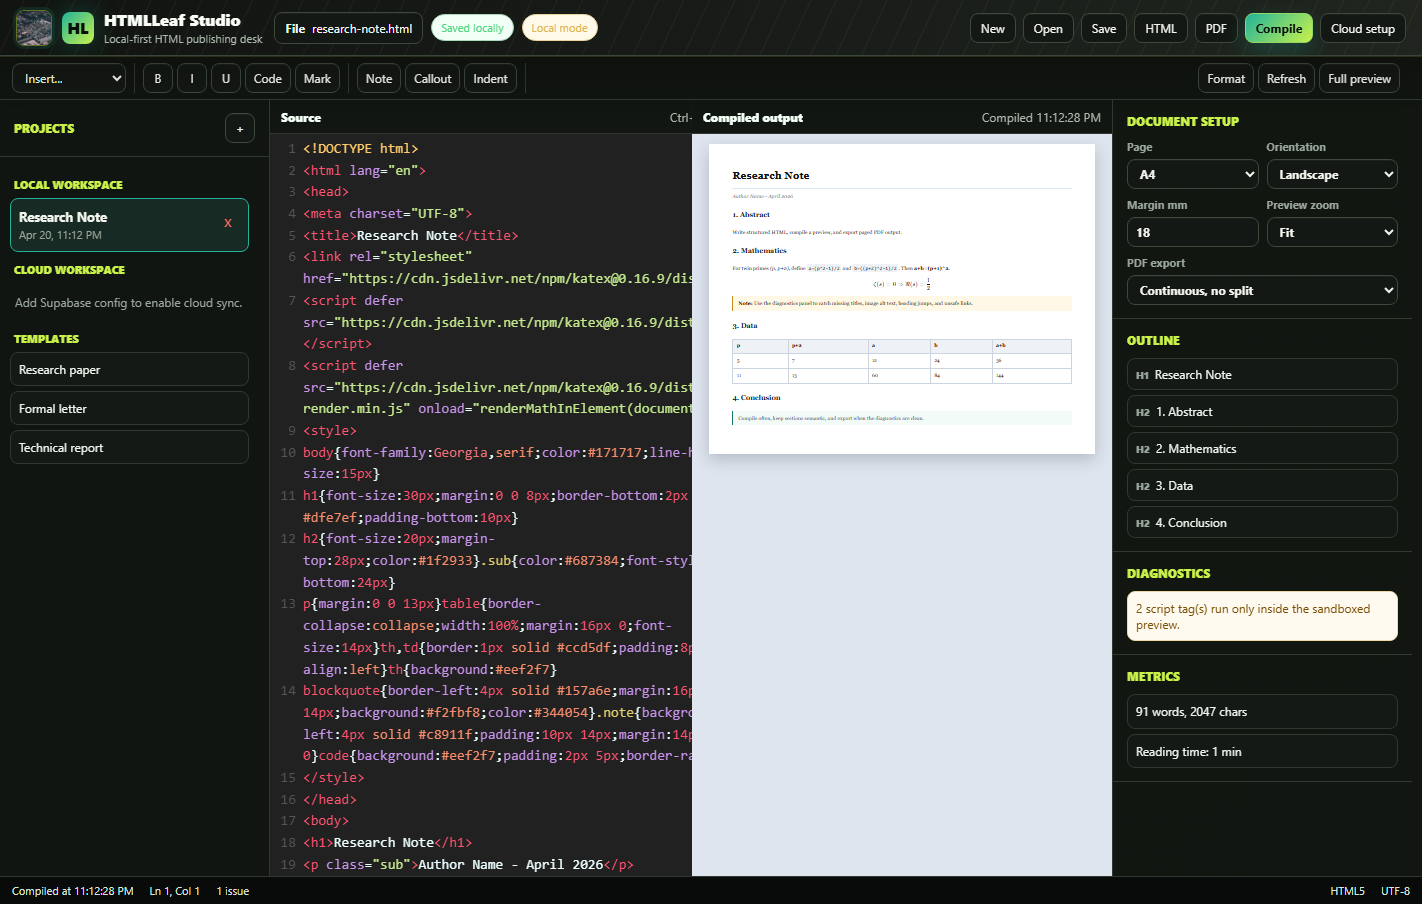
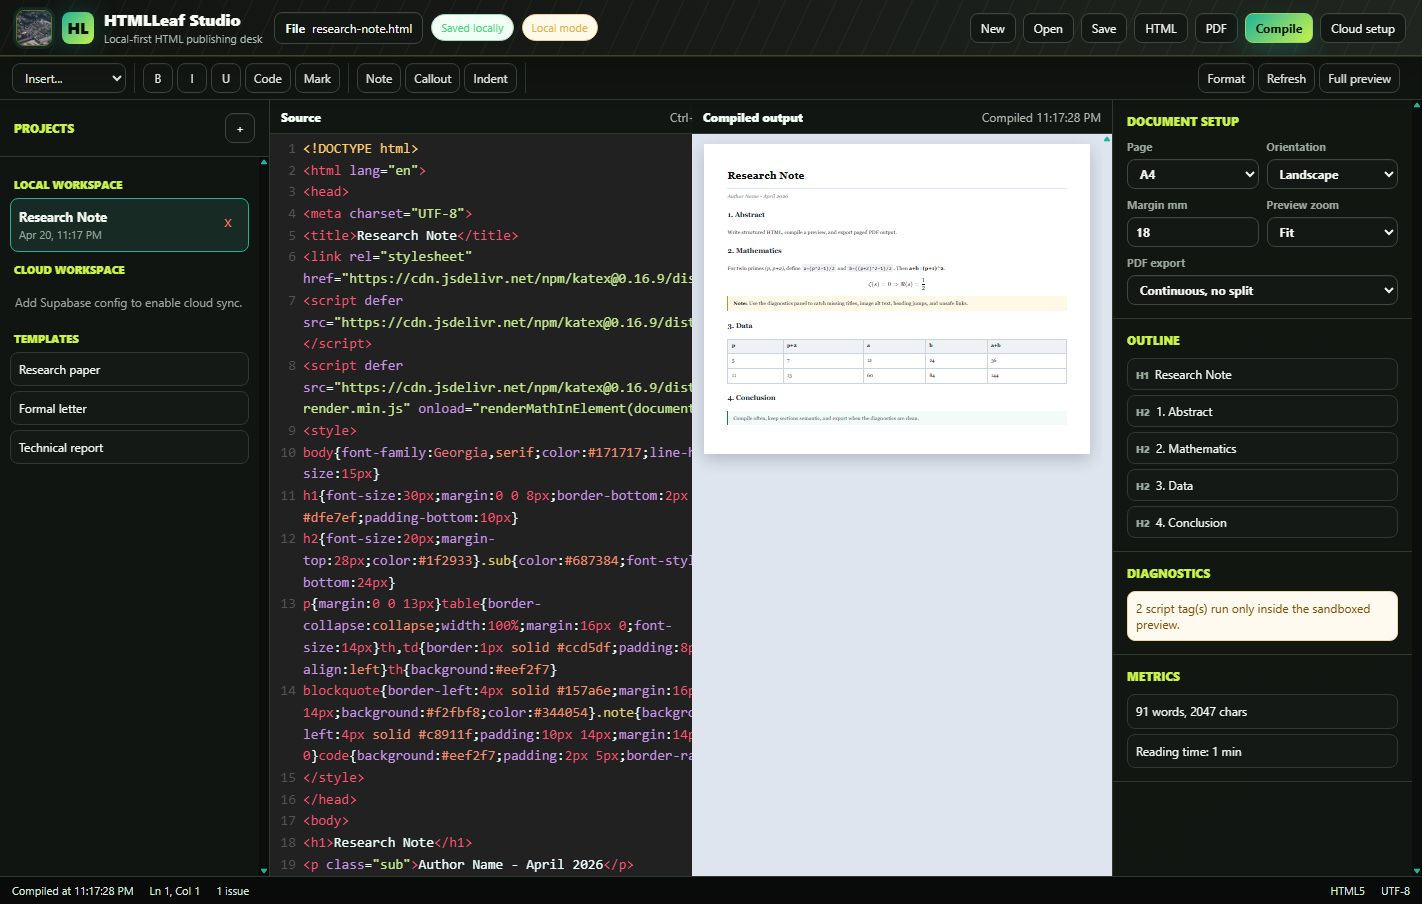
Fix wheel scrolling

Changed region(s): [[0.4951, 0.1858, 0.6807, 0.4956], [0.7426, 0.1858, 0.7736, 0.4956]]

diff --git a/index.html b/index.html
@@ -73,7 +73,9 @@ body::before{content:"";position:fixed;inset:0;pointer-events:none;background:li
 ::-webkit-scrollbar-thumb{background:linear-gradient(180deg,#21b39a,#c9f24b);border:3px solid #0b0e0c;border-radius:8px}
 ::-webkit-scrollbar-thumb:hover{background:linear-gradient(180deg,#52dfc8,#dbff6c)}
 .project-scroll,.inspector,.CodeMirror-scroll,.preview-wrap{scrollbar-gutter:stable}
-.project-scroll,.inspector{overflow-y:auto;overflow-x:hidden}
+.project-scroll,.inspector{overflow-y:scroll;overflow-x:hidden}
+.CodeMirror-vscrollbar{width:14px!important}
+.CodeMirror-hscrollbar{height:14px!important}
 </style>
 </head>
 <body>
@@ -161,8 +163,8 @@ function onEditorChange(){setDirty(true);scheduleAutosave();refreshDocumentIntel
 function refreshDocumentIntelligence(){const s=getEditorValue();updateStats(s);renderOutline(s);renderDiagnostics(s)}function updateStats(s){const text=s.replace(/<script[\s\S]*?<\/script>/gi," ").replace(/<style[\s\S]*?<\/style>/gi," ").replace(/<[^>]+>/g," ").replace(/&[a-z0-9#]+;/gi," ").replace(/\s+/g," ").trim(),w=text?text.split(" ").filter(Boolean).length:0;$("wc").textContent=w+" words, "+s.length+" chars";$("reading-time").textContent="Reading time: "+Math.max(1,Math.ceil(w/220))+" min"}function parseHTML(s){return new DOMParser().parseFromString(s,"text/html")}
 function renderOutline(s){const doc=parseHTML(s),heads=Array.from(doc.querySelectorAll("h1,h2,h3,h4,h5,h6"));if(!heads.length){$("outline-list").innerHTML='<div class="empty-state">No headings yet.</div>';return}$("outline-list").innerHTML=heads.map((h,i)=>`<button class="outline-item" data-heading="${i}"><small>${h.tagName}</small>${escapeHTML(h.textContent.trim()||"Untitled heading")}</button>`).join("");$("outline-list").querySelectorAll("[data-heading]").forEach(b=>b.addEventListener("click",()=>{const h=heads[Number(b.getAttribute("data-heading"))],txt=h.textContent.trim(),line=getEditorValue().split(/\r?\n/).findIndex(r=>r.includes(txt));if(line>=0&&editor&&editor.setCursor){editor.setCursor({line,ch:0});focusEditor()}}))}
 function collectDiagnostics(s){const doc=parseHTML(s),d=[],title=doc.querySelector("title");if(!title||!title.textContent.trim())d.push({type:"warn",message:"Document title is missing."});const h1=doc.querySelectorAll("h1");if(!h1.length)d.push({type:"warn",message:"Add one h1 so the document has a clear title."});if(h1.length>1)d.push({type:"warn",message:"Multiple h1 headings found. Use one main title."});const imgs=Array.from(doc.images).filter(img=>!img.getAttribute("alt"));if(imgs.length)d.push({type:"warn",message:imgs.length+" image(s) need alt text."});const ids=Array.from(doc.querySelectorAll("[id]")).map(el=>el.id).filter(Boolean),dups=ids.filter((id,i)=>ids.indexOf(id)!==i);if(dups.length)d.push({type:"danger",message:"Duplicate id values: "+Array.from(new Set(dups)).join(", ")});const unsafe=Array.from(doc.querySelectorAll("[href],[src]")).filter(el=>/^\s*javascript:/i.test(el.getAttribute("href")||el.getAttribute("src")||""));if(unsafe.length)d.push({type:"danger",message:"Unsafe javascript: link or source found."});const scripts=doc.querySelectorAll("script").length;if(scripts)d.push({type:"warn",message:scripts+" script tag(s) run only inside the sandboxed preview."});let last=0;Array.from(doc.querySelectorAll("h1,h2,h3,h4,h5,h6")).forEach(h=>{const lvl=Number(h.tagName.slice(1));if(last&&lvl>last+1)d.push({type:"warn",message:"Heading level jumps from h"+last+" to h"+lvl+"."});last=lvl});if(!d.length)d.push({type:"ok",message:"No structural issues detected."});return d}function renderDiagnostics(s){const d=collectDiagnostics(s);$("diag-list").innerHTML=d.map(x=>`<div class="diag-item ${x.type}">${escapeHTML(x.message)}</div>`).join("");const c=d.filter(x=>x.type!=="ok").length;$("diag-summary").textContent=c+(c===1?" issue":" issues")}
-function pageMetrics(){const b=PAGE_SIZES[settings.pageSize]||PAGE_SIZES.a4,l=settings.orientation==="landscape";return{label:b.label,w:l?b.h:b.w,h:l?b.w:b.h,pdf:b.pdf,orientation:l?"landscape":"portrait",margin:Number(settings.margin)||18}}function pageCss(){const p=pageMetrics(),z=settings.zoom==="fit"?"":"zoom:"+(Number(settings.zoom)/100)+";";return`html{background:#dfe5ee;min-height:100%;scrollbar-width:thin;scrollbar-color:#21b39a #dfe5ee}html::-webkit-scrollbar{width:12px;height:12px}html::-webkit-scrollbar-track{background:#dfe5ee}html::-webkit-scrollbar-thumb{background:linear-gradient(180deg,#21b39a,#c9f24b);border:3px solid #dfe5ee;border-radius:8px}body{width:${p.w}mm!important;min-height:${p.h}mm!important;margin:28px auto!important;padding:${p.margin}mm!important;background:#fff!important;color:#111;box-sizing:border-box!important;box-shadow:0 18px 45px rgba(24,32,45,.22);${z}}img,svg,canvas,video{max-width:100%;height:auto}table{max-width:100%}@page{size:${p.w}mm ${p.h}mm;margin:${p.margin}mm}@media print{html{background:#fff}body{box-shadow:none;margin:0!important}}`}
-function buildPreviewDocument(s){const doc=parseHTML(s),head=doc.head?doc.head.innerHTML:"",body=doc.body?doc.body.innerHTML:s,zoom=settings.zoom||"fit";return`<!DOCTYPE html><html lang="en"><head><meta charset="UTF-8"><base target="_blank">${head}<style id="htmlleaf-page-style">${pageCss()}</style></head><body>${body}<script>function htmlleafFit(){try{if("${zoom}"!=="fit")return;document.body.style.zoom="";var w=document.body.getBoundingClientRect().width;var scale=Math.min(1,Math.max(.34,(window.innerWidth-34)/Math.max(1,w)));document.body.style.zoom=scale}catch(e){}}window.addEventListener("load",function(){try{if(window.renderMathInElement){renderMathInElement(document.body,{delimiters:[{left:"$$",right:"$$",display:true},{left:"\\\\(",right:"\\\\)",display:false},{left:"\\\\[",right:"\\\\]",display:true}],throwOnError:false})}}catch(err){}htmlleafFit();setTimeout(htmlleafFit,250)});window.addEventListener("resize",htmlleafFit);<\/script></body></html>`}
+function pageMetrics(){const b=PAGE_SIZES[settings.pageSize]||PAGE_SIZES.a4,l=settings.orientation==="landscape";return{label:b.label,w:l?b.h:b.w,h:l?b.w:b.h,pdf:b.pdf,orientation:l?"landscape":"portrait",margin:Number(settings.margin)||18}}function pageCss(){const p=pageMetrics(),z=settings.zoom==="fit"?"":"zoom:"+(Number(settings.zoom)/100)+";";return`html{background:#dfe5ee;min-height:100%;overflow-y:scroll;scrollbar-width:thin;scrollbar-color:#21b39a #dfe5ee}html::-webkit-scrollbar{width:14px;height:14px}html::-webkit-scrollbar-track{background:#dfe5ee;border-left:1px solid #b9c3cf}html::-webkit-scrollbar-thumb{background:linear-gradient(180deg,#21b39a,#c9f24b);border:3px solid #dfe5ee;border-radius:8px}body{width:${p.w}mm!important;min-height:${p.h}mm!important;margin:28px auto!important;padding:${p.margin}mm!important;background:#fff!important;color:#111;box-sizing:border-box!important;box-shadow:0 18px 45px rgba(24,32,45,.22);${z}}img,svg,canvas,video{max-width:100%;height:auto}table{max-width:100%}@page{size:${p.w}mm ${p.h}mm;margin:${p.margin}mm}@media print{html{background:#fff}body{box-shadow:none;margin:0!important}}`}
+function buildPreviewDocument(s){const doc=parseHTML(s),head=doc.head?doc.head.innerHTML:"",body=doc.body?doc.body.innerHTML:s,zoom=settings.zoom||"fit";return`<!DOCTYPE html><html lang="en"><head><meta charset="UTF-8"><base target="_blank">${head}<style id="htmlleaf-page-style">${pageCss()}</style></head><body>${body}<script>function htmlleafFit(){try{if("${zoom}"!=="fit")return;document.body.style.zoom="";var w=document.body.getBoundingClientRect().width;var scale=Math.min(1,Math.max(.34,(window.innerWidth-34)/Math.max(1,w)));document.body.style.zoom=scale}catch(e){}}function htmlleafWheel(e){try{var root=document.scrollingElement||document.documentElement;if(!root||root.scrollHeight<=root.clientHeight+2)return;var before=root.scrollTop;root.scrollTop+=e.deltaY;if(e.deltaX)root.scrollLeft+=e.deltaX;if(root.scrollTop!==before)e.preventDefault()}catch(err){}}window.addEventListener("load",function(){try{if(window.renderMathInElement){renderMathInElement(document.body,{delimiters:[{left:"$$",right:"$$",display:true},{left:"\\\\(",right:"\\\\)",display:false},{left:"\\\\[",right:"\\\\]",display:true}],throwOnError:false})}}catch(err){}htmlleafFit();setTimeout(htmlleafFit,250)});window.addEventListener("resize",htmlleafFit);document.addEventListener("wheel",htmlleafWheel,{passive:false});<\/script></body></html>`}
 function compile(){const s=getEditorValue();$("cov").classList.add("show");$("cov-lbl").textContent="Compiling...";$("cstatus").textContent="Compiling...";setStatus("Compiling preview...");compiled=true;const f=$("pvdoc");let done=false;const finish=()=>{if(done)return;done=true;$("cov").classList.remove("show");const t=new Date().toLocaleTimeString();$("cstatus").textContent="Compiled "+t;setStatus("Compiled at "+t)};f.onload=finish;try{f.srcdoc=buildPreviewDocument(s);setTimeout(finish,1200)}catch(e){$("cov").classList.remove("show");$("cstatus").textContent="Compile failed";setStatus("Compile error: "+e.message)}}
 function sanitizeDocumentForExport(s){const doc=parseHTML(s);doc.querySelectorAll("script,iframe,object,embed,form,input,button,textarea,select").forEach(el=>el.remove());doc.querySelectorAll("*").forEach(el=>Array.from(el.attributes).forEach(a=>{const n=a.name.toLowerCase(),v=a.value||"";if(n.startsWith("on")||/^\s*javascript:/i.test(v))el.removeAttribute(a.name)}));return{styles:Array.from(doc.querySelectorAll('style,link[rel="stylesheet"]')).map(el=>el.outerHTML).join("\n"),body:doc.body?doc.body.innerHTML:s}}function preparePdfSurface(s){const p=pageMetrics(),safe=sanitizeDocumentForExport(s),surf=$("pdf-render");surf.innerHTML="";surf.style.width=p.w+"mm";surf.style.minHeight=p.h+"mm";surf.style.padding=p.margin+"mm";surf.style.boxSizing="border-box";surf.style.background="#fff";surf.innerHTML=safe.styles+'<style id="htmlleaf-export-style">body{margin:0}#pdf-render img,#pdf-render svg,#pdf-render canvas,#pdf-render video{max-width:100%;height:auto}#pdf-render table{max-width:100%}</style>'+safe.body;if(window.renderMathInElement){try{renderMathInElement(surf,{delimiters:[{left:"$$",right:"$$",display:true},{left:"\\(",right:"\\)",display:false},{left:"\\[",right:"\\]",display:true}],throwOnError:false})}catch(e){setStatus("Math render warning: "+e.message)}}return surf}
 function waitForAssets(c){const waits=Array.from(c.querySelectorAll("img")).map(img=>img.complete?Promise.resolve():new Promise(res=>{const t=setTimeout(res,1800);img.onload=img.onerror=()=>{clearTimeout(t);res()}}));if(document.fonts&&document.fonts.ready)waits.push(document.fonts.ready.catch(()=>{}));return Promise.all(waits)}
@@ -176,8 +178,9 @@ async function signInOrUp(){if(!sb)return setCloudMessage("Save Supabase config 
 async function loadCloudProjects(){if(!sb||!currentUser)return;try{const r=await sb.from("projects").select("id,name,updated_at").eq("user_id",currentUser.id).order("updated_at",{ascending:false});if(r.error)throw r.error;cloudProjects=r.data||[];renderProjects()}catch(e){setStatus("Cloud load failed: "+e.message);setCloudMessage("Cloud load failed: "+e.message,true)}}
 async function openCloudProject(id){if(!sb||!currentUser)return;if(dirty)saveNow();$("cov").classList.add("show");$("cov-lbl").textContent="Loading cloud project...";try{const r=await sb.from("projects").select("id,name,content,updated_at").eq("id",id).eq("user_id",currentUser.id).single();if(r.error)throw r.error;const cp=r.data;let local=projects.find(p=>p.cloudId===id);if(!local){local={id:createId(),cloudId:id,name:cp.name||"Cloud Project",fileName:((cp.name||"cloud-project").replace(/[^\w.-]+/g,"-").toLowerCase())+".html",content:cp.content||"",createdAt:nowISO(),updatedAt:cp.updated_at||nowISO()};projects.unshift(local)}else{local.content=cp.content||"";local.updatedAt=cp.updated_at||nowISO()}persistProjects();openLocalProject(local.id);setCloudMessage("Cloud project opened.",false)}catch(e){setCloudMessage("Open failed: "+e.message,true)}finally{$("cov").classList.remove("show")}}
 async function syncActiveToCloud(showFeedback=true){if(!sb||!currentUser)return;const p=activeProject();if(!p)return;try{let r;if(p.cloudId)r=await sb.from("projects").update({name:p.name,content:p.content,updated_at:nowISO()}).eq("id",p.cloudId).eq("user_id",currentUser.id).select().single();else r=await sb.from("projects").insert({name:p.name,content:p.content,user_id:currentUser.id}).select().single();if(r.error)throw r.error;if(r.data&&r.data.id)p.cloudId=r.data.id;persistProjects();await loadCloudProjects();if(showFeedback)setCloudMessage("Project synced to cloud.",false)}catch(e){setStatus("Cloud sync failed: "+e.message);if(showFeedback)setCloudMessage("Cloud sync failed: "+e.message,true)}}async function deleteCloudProject(id){if(!sb||!currentUser||!confirm("Delete this cloud project? Local mirrors will remain."))return;try{const r=await sb.from("projects").delete().eq("id",id).eq("user_id",currentUser.id);if(r.error)throw r.error;projects.forEach(p=>{if(p.cloudId===id)p.cloudId=null});persistProjects();await loadCloudProjects()}catch(e){setCloudMessage("Cloud delete failed: "+e.message,true)}}
+function installWheelRouting(){document.addEventListener("wheel",e=>{if(e.ctrlKey||e.metaKey)return;const tag=(e.target&&e.target.tagName?e.target.tagName:"").toLowerCase();if(["input","textarea","select","option"].includes(tag))return;let scroller=null;if(e.target.closest&&e.target.closest(".CodeMirror"))scroller=editor&&editor.getScrollerElement?editor.getScrollerElement():document.querySelector(".CodeMirror-scroll");else if(e.target.closest){scroller=e.target.closest(".project-scroll,.inspector");if(!scroller&&e.target.closest(".projects"))scroller=document.querySelector(".project-scroll")}if(!scroller||scroller.scrollHeight<=scroller.clientHeight+2)return;const before=scroller.scrollTop;scroller.scrollTop+=e.deltaY;if(e.deltaX)scroller.scrollLeft+=e.deltaX;if(scroller.scrollTop!==before)e.preventDefault()},{passive:false})}
 function wireEvents(){$("btn-new").onclick=()=>showNameModal("New project","Create a blank local document.","Create",n=>createProject(n,STARTER));$("btn-new-small").onclick=$("btn-new").onclick;$("btn-save").onclick=saveNow;$("btn-open").onclick=()=>$("fileinput").click();$("btn-dl-html").onclick=downloadHTML;$("btn-dl-pdf").onclick=downloadPDF;$("btn-compile").onclick=compile;$("btn-recompile").onclick=compile;$("btn-cloud").onclick=openCloudModal;$("btn-fs").onclick=()=>{const w=$("pvwrap"),fn=w.requestFullscreen||w.webkitRequestFullscreen;if(fn)fn.call(w)};$("fileinput").addEventListener("change",e=>{const file=e.target.files[0];if(!file)return;const r=new FileReader();r.onload=ev=>{createProject(file.name.replace(/\.html?$/i,"")||"Imported",ev.target.result);const p=activeProject();if(p)p.fileName=file.name;persistProjects()};r.readAsText(file);e.target.value=""});$("ins-tag").onchange=function(){insertSnippet(SNIPS[this.value]);this.value=""};$("tb-b").onclick=()=>wrapSelection("<strong>","</strong>");$("tb-i").onclick=()=>wrapSelection("<em>","</em>");$("tb-u").onclick=()=>wrapSelection("<u>","</u>");$("tb-code").onclick=()=>wrapSelection("<code>","</code>");$("tb-mark").onclick=()=>wrapSelection("<mark>","</mark>");$("tb-note").onclick=()=>insertSnippet('<div class="note"><strong>Note:</strong> Add detail here.</div>\n');$("tb-callout").onclick=()=>insertSnippet('<aside style="border:1px solid #ccd5df;padding:12px;border-radius:6px;background:#f7fbff"><strong>Callout:</strong> Key idea.</aside>\n');$("btn-indent").onclick=()=>editor.execCommand&&editor.execCommand("indentMore");$("btn-format").onclick=formatDocument;["pgsz","pgori","pgmargin","pgzoom","pgexport"].forEach(id=>$(id).addEventListener("change",saveSettings));$("name-ok").onclick=()=>{const n=$("name-input").value.trim();if(!n)return;const cb=modalCallback;closeNameModal();if(cb)cb(n)};$("name-cancel").onclick=closeNameModal;$("name-input").addEventListener("keydown",e=>{if(e.key==="Enter")$("name-ok").click();if(e.key==="Escape")closeNameModal()});$("name-modal").addEventListener("click",e=>{if(e.target===$("name-modal"))closeNameModal()});$("cloud-close").onclick=closeCloudModal;$("cloud-modal").addEventListener("click",e=>{if(e.target===$("cloud-modal"))closeCloudModal()});$("cloud-save").onclick=()=>{cloudConfig={url:$("cloud-url").value.trim(),key:$("cloud-key").value.trim()};saveJSON(CLOUD_KEY,cloudConfig);setCloudMessage("Cloud config saved locally in this browser.",false);initCloud()};$("cloud-clear").onclick=()=>{localStorage.removeItem(CLOUD_KEY);cloudConfig={url:"",key:""};currentUser=null;cloudProjects=[];initCloud();setCloudMessage("Cloud config cleared. Local projects are unchanged.",false)};$("auth-submit").onclick=signInOrUp;$("auth-signout").onclick=async()=>{if(sb)await sb.auth.signOut();currentUser=null;cloudProjects=[];updateCloudUI();setCloudMessage("Signed out.",false)};$("btn-google-auth").onclick=async()=>{if(!sb)return setCloudMessage("Save Supabase config first.",true);const r=await sb.auth.signInWithOAuth({provider:"google",options:{redirectTo:window.location.href}});if(r.error)setCloudMessage(r.error.message,true)};$("tab-signin").onclick=()=>{authMode="signin";$("tab-signin").classList.add("active");$("tab-signup").classList.remove("active");$("auth-submit").textContent="Sign in"};$("tab-signup").onclick=()=>{authMode="signup";$("tab-signup").classList.add("active");$("tab-signin").classList.remove("active");$("auth-submit").textContent="Sign up"};document.addEventListener("keydown",e=>{if(e.key==="Escape"){closeNameModal();closeCloudModal()}})}
-function boot(){initializeEditor();applySettingsToControls();renderTemplates();wireEvents();ensureStarterProject();initCloud();refreshDocumentIntelligence();compile();if(!window.CodeMirror)setStatus("Editor fallback active: CodeMirror did not load.")}
+function boot(){initializeEditor();applySettingsToControls();renderTemplates();wireEvents();installWheelRouting();ensureStarterProject();initCloud();refreshDocumentIntelligence();compile();if(!window.CodeMirror)setStatus("Editor fallback active: CodeMirror did not load.")}
 boot();
 </script>
 </body>

diff --git a/smoke-test.js b/smoke-test.js
@@ -126,12 +126,22 @@ async function main() {
     continuousExport: typeof exportContinuousPDF === 'function',
     pagedExport: typeof exportPagedPDF === 'function',
     smartBreaks: typeof smartBreaks === 'function',
+    wheelRouting: typeof installWheelRouting === 'function',
     sandbox: document.getElementById('pvdoc')?.getAttribute('sandbox') || '',
     sameOrigin: (document.getElementById('pvdoc')?.getAttribute('sandbox') || '').includes('allow-same-origin'),
     hasSrcdoc: !!document.getElementById('pvdoc')?.srcdoc,
     fitPreviewScript: (document.getElementById('pvdoc')?.srcdoc || '').includes('htmlleafFit'),
+    previewWheelScript: (document.getElementById('pvdoc')?.srcdoc || '').includes('htmlleafWheel'),
     localStorageBytes: (localStorage.getItem('htmlleaf.projects.v3') || '').length
   }))()`);
+  const editorWheelWorked = await evalExpr(`(() => {
+    const host = document.querySelector('.CodeMirror');
+    const scroller = document.querySelector('.CodeMirror-scroll');
+    if (!host || !scroller || scroller.scrollHeight <= scroller.clientHeight + 2) return true;
+    const before = scroller.scrollTop;
+    host.dispatchEvent(new WheelEvent('wheel', { deltaY: 600, bubbles: true, cancelable: true }));
+    return scroller.scrollTop > before;
+  })()`);
 
   await evalExpr("document.getElementById('pgori').value='landscape'; document.getElementById('pgori').dispatchEvent(new Event('change', { bubbles: true })); true");
   await sleep(1300);
@@ -150,10 +160,13 @@ async function main() {
   if (state.exportMode !== "continuous") failures.push("continuous PDF export is not the default");
   if (!state.continuousExport) failures.push("continuous PDF export function missing");
   if (!state.pagedExport || !state.smartBreaks) failures.push("smart paged PDF export functions missing");
+  if (!state.wheelRouting) failures.push("wheel routing function missing");
+  if (!editorWheelWorked) failures.push("mouse wheel did not scroll the editor");
   if (!state.cstatus.includes("Compiled")) failures.push("compile status did not update");
   if (state.sameOrigin) failures.push("iframe sandbox still allows same-origin");
   if (!state.hasSrcdoc) failures.push("preview srcdoc missing");
   if (!state.fitPreviewScript) failures.push("fit-preview script missing");
+  if (!state.previewWheelScript) failures.push("preview wheel script missing");
   if (state.localStorageBytes < 100) failures.push("local project storage missing");
   if (!pageSettingWorked) failures.push("page orientation/size did not affect preview");
   if (exceptions.length) failures.push("runtime exceptions: " + exceptions.join(" | "));
@@ -168,6 +181,7 @@ async function main() {
     failures,
     state,
     pageSettingWorked,
+    editorWheelWorked,
     exceptions,
     logs: logs.slice(0, 8),
     screenshotPath

diff --git a/summar.md b/summar.md
@@ -83,3 +83,11 @@ After testing the live editor, the PDF export and preview were refined again:
 - Added a fit-to-preview pass inside the sandboxed compiled document so wide pages do not look broken or clipped after Compile.
 - Upgraded the visual design with a darker studio shell, signal-grid texture, stronger neon-accent controls, richer panel styling, and a small visual brand image.
 - Updated `smoke-test.js` to verify continuous PDF export is the default, smart paged export functions exist, and the preview fit script is present.
+
+## Scroll Refinement
+
+- Added visible styled scrollbar rails for the project rail, inspector, CodeMirror editor, and compiled preview.
+- Forced stable vertical scrollbar space where the app has scrollable panels.
+- Added mouse-wheel routing so scrolling over nested editor/sidebar surfaces moves the correct panel.
+- Added a wheel handler inside the sandboxed preview document.
+- Updated `smoke-test.js` to verify editor mouse-wheel scrolling works and preview wheel support is injected.
